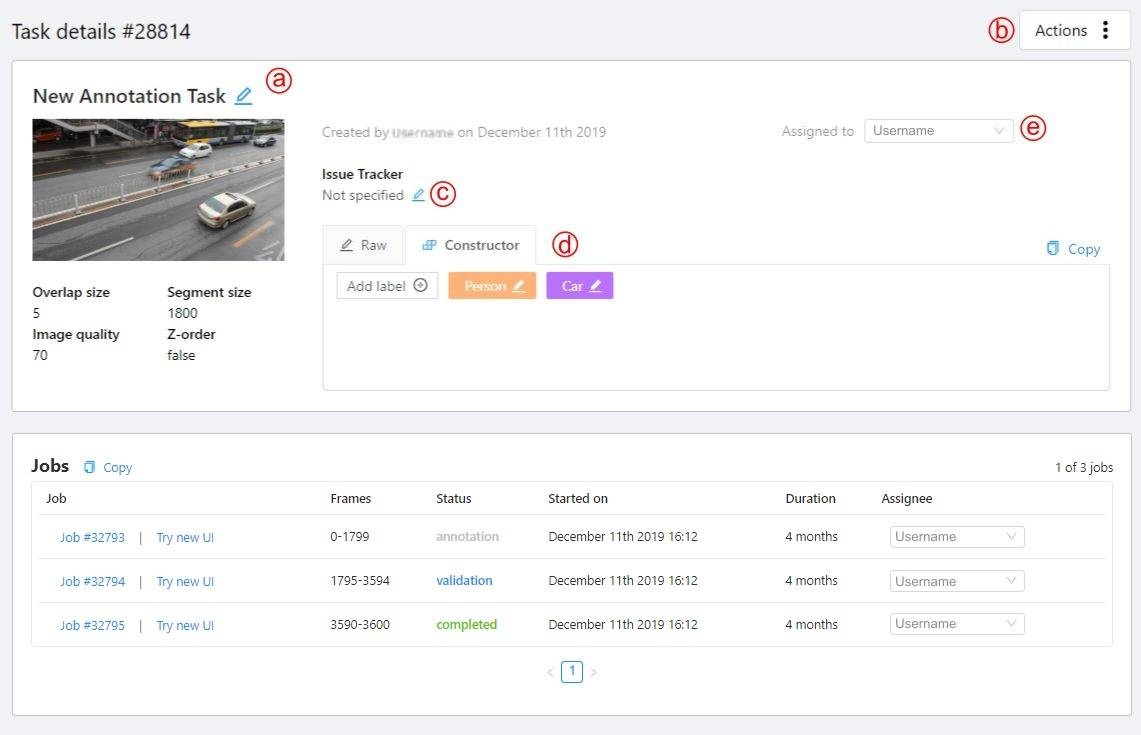
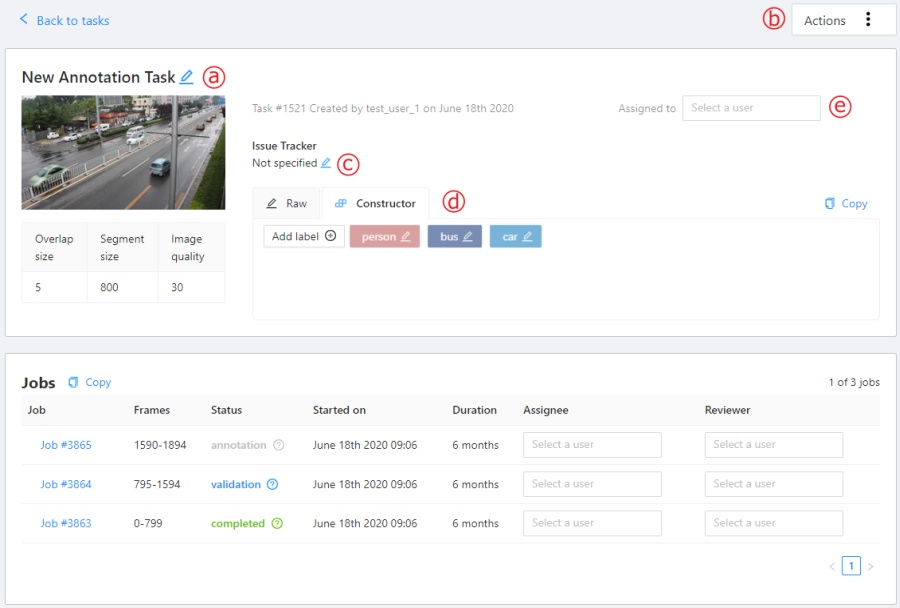
Add documentation about Review feature into User Guide (#2638)

diff --git a/cvat/apps/documentation/user_guide.md b/cvat/apps/documentation/user_guide.md
@@ -35,6 +35,7 @@
   - [Annotation with cuboids](#annotation-with-cuboids)
   - [Annotation with tags](#annotation-with-tags)
   - [Track mode with polygons](#track-mode-with-polygons)
+  - [Review](#review)
   - [Automatic annotation](#automatic-annotation)
   - [Shape grouping](#shape-grouping)
   - [Filter](#filter)
@@ -290,6 +291,7 @@ Go to the [Django administration panel](http://localhost:8080/admin). There you 
       - Duration — is the amount of time the job is being worked.
       - Assignee is the user who is working on the job.
         You can start typing an assignee’s name and/or choose the right person out of the dropdown list.
+      - Reviewer – a user assigned to carry out the review, read more in the [review](#review) section.
       - `Copy`. By clicking Copy you will copy the job list to the clipboard.
         The job list contains direct links to jobs.
 
@@ -753,6 +755,9 @@ Button assignment:
   - [MS COCO](http://cocodataset.org/#format-data)
   - [YOLO](https://pjreddie.com/darknet/yolo/)
 - `Open the task` — opens a page with details about the task.
+- `Request a review` - calls up the form to submit the job for a review, read more in the [review](#review)  section.
+- `Finish the job` - changes the status of the job to `completed` and returns to the task page without review.
+- `Submit the review` - (available during the review) calls up the form to submit a review, read more in the [review](#review) section.
 
 #### Save Work
 
@@ -813,11 +818,10 @@ Open the job info.
 
 ![](static/documentation/images/image144_detrac.jpg)
 
-- Job status: `annotation`, `validation` or `completed` task
-
 _Overview_:
 
 - `Assinger` - the one to whom the job is assigned.
+- `Reviewer` – a user assigned to carry out the review, read more in the [review](#review) section.
 - `Start Frame` - the number of the first frame in this job.
 - `End Frame` - the number of the last frame in this job.
 - `Frames` - the total number of all frames in the job.
@@ -860,6 +864,7 @@ Switching between user interface modes.
 |![](static/documentation/images/image170.jpg)|`Points` |[Annotation with points](#annotation-with-points) |
 |![](static/documentation/images/image176.jpg)|`Cuboid` |[Annotation with cuboids](#annotation-with-cuboids) |
 |![](static/documentation/images/image171.jpg)|`Tag` |[Annotation with tags](#annotation-with-tag) |
+|![](static/documentation/images/image195.jpg)|`Open an issue` |[Review](#review) (available only in review mode) |
 
 **Edit block** - contains tools for editing tracks and shapes.
 |Icon |Description |Links to section |
@@ -1415,6 +1420,38 @@ Polygons in the track mode allow you to mark moving objects more accurately othe
 
 There is no need to redraw the polygon every time using `Shift+N`,
 instead you can simply move the points or edit a part of the polygon by pressing `Shift+Click`.
+
+## Review
+
+A special mode to check the annotation allows you to point to an object or area in the frame containing an error.
+To go into review mode, you need to select `Request a review` in the menu and assign the user to run a check.
+
+![](static/documentation/images/image194.jpg)
+
+After that, the job status will be changed to `validation`
+and the reviewer will be able to open the task in review mode.
+Review mode is a UI mode, there is a special "issue" tool which you can use to identify objects
+or areas in the frame and describe the problem.
+
+- To do this, first click `open an issue` icon on the controls sidebar:
+
+  ![](static/documentation/images/image195.jpg)
+
+- Then click on an object in the frame to highlight the object or highlight the area by holding the left mouse button
+and describe the problem. The object or area will be shaded in red.
+- The created issue will appear in the workspace and in the `issues` tab on the objects sidebar.
+- After you save the annotation, other users will be able to see the problem, comment on each issue
+and change the status of the problem to `resolved`.
+- You can use the arrows on the issues tab to navigate the frames that contain problems.
+
+  ![](static/documentation/images/image196_detrac.jpg)
+
+- Once all the problems are marked, save the annotation, open the menu and select "submit the review". After that you'll see a form containing the verification statistics, here you can give an assessment of the job and choose further actions:
+    - Accept - changes the status of the job to `completed`.
+    - Review next – passes the job to another user for re-review.
+    - Reject - changes the status of the job to `annotation`.
+
+  ![](static/documentation/images/image197.jpg)
 
 ## Automatic annotation
 
